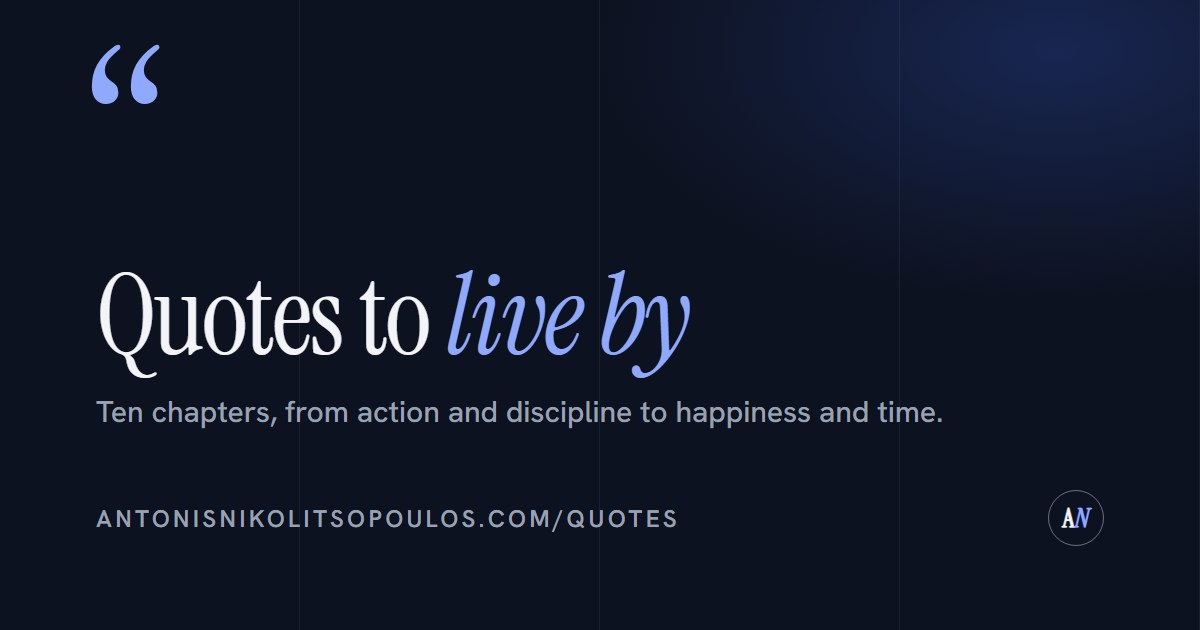
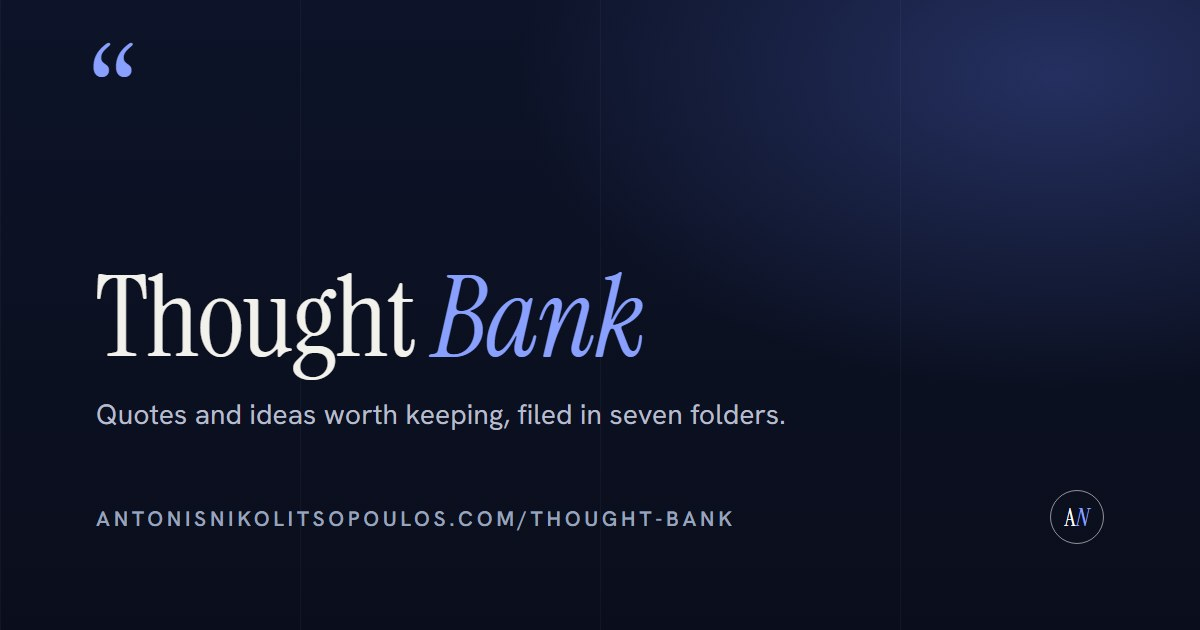
Thought Bank: share image says Thought Bank, not Quotes to live by
The X link preview still showed the old Quotes card because thought-bank/og.jpg was never redrawn
after the rename. New image in the same style, ?v=2 so X refetches it; generator kept in scripts/og.

diff --git a/scripts/og/thought-bank.html b/scripts/og/thought-bank.html
@@ -1,0 +1,25 @@
+<!doctype html><html><head><meta charset="utf-8">
+<link rel="stylesheet" href="https://fonts.googleapis.com/css2?family=Instrument+Serif:ital@0;1&family=Hanken+Grotesk:wght@400;500;600&display=swap">
+<style>
+html,body{margin:0}
+body{width:1200px;height:630px;position:relative;overflow:hidden;font-family:"Hanken Grotesk",sans-serif;color:#f3f1ec;
+ background:#0b1020;
+ background-image:radial-gradient(900px 520px at 88% 12%,rgba(75,96,190,.38),rgba(11,16,32,0) 60%),
+  linear-gradient(180deg,#0d1328 0%,#0a0e1c 100%);}
+.lines{position:absolute;inset:0;background-image:repeating-linear-gradient(90deg,rgba(255,255,255,.035) 0 1px,transparent 1px 300px);}
+.mark{position:absolute;left:96px;top:36px;font-family:"Instrument Serif",serif;font-size:150px;line-height:1;color:#8aa0ff;}
+h1{position:absolute;left:96px;top:262px;margin:0;font-family:"Instrument Serif",serif;font-weight:400;font-size:112px;line-height:1;letter-spacing:-.01em;}
+h1 em{color:#8aa0ff;font-style:italic;}
+.sub{position:absolute;left:96px;top:396px;margin:0;font-size:28px;color:#b7bccb;letter-spacing:.005em;}
+.url{position:absolute;left:96px;top:505px;margin:0;font-size:21px;font-weight:600;letter-spacing:.18em;color:#9aa3bd;text-transform:uppercase;}
+.an{position:absolute;right:96px;top:490px;width:52px;height:52px;border-radius:50%;border:1.5px solid rgba(255,255,255,.55);
+ display:flex;align-items:center;justify-content:center;font-family:"Instrument Serif",serif;font-size:24px;letter-spacing:.02em;color:#fff;}
+.an i{font-style:italic;color:#8aa0ff;}
+</style></head><body>
+<div class="lines"></div>
+<div class="mark">&ldquo;</div>
+<h1>Thought <em>Bank</em></h1>
+<p class="sub">Quotes and ideas worth keeping, filed in seven folders.</p>
+<p class="url">antonisnikolitsopoulos.com/thought-bank</p>
+<div class="an">A<i>N</i></div>
+</body></html>

diff --git a/thought-bank/index.html b/thought-bank/index.html
@@ -7,7 +7,7 @@
 <meta property="og:description" content="A Thought Bank: quotes and ideas worth keeping, filed in seven folders: physical health, emotions, mind, relationships, career, money and environment.">
 <meta property="og:url" content="https://antonisnikolitsopoulos.com/thought-bank/">
 <meta property="og:type" content="website">
-<meta property="og:image" content="https://antonisnikolitsopoulos.com/thought-bank/og.jpg?v=1">
+<meta property="og:image" content="https://antonisnikolitsopoulos.com/thought-bank/og.jpg?v=2">
 <meta property="og:image:width" content="1200">
 <meta property="og:image:height" content="630">
 <meta name="twitter:card" content="summary_large_image">

diff --git a/scripts/og/render.py b/scripts/og/render.py
@@ -1,0 +1,10 @@
+# Share image for X link previews: python scripts/og/render.py scripts/og/thought-bank.html thought-bank/og.jpg (then bump ?v= in the page)
+import sys, pathlib
+from playwright.sync_api import sync_playwright
+html, out = pathlib.Path(sys.argv[1]).read_text(encoding="utf-8"), sys.argv[2]
+with sync_playwright() as p:
+    b = p.chromium.launch(); pg = b.new_page(viewport={"width":1200,"height":630})
+    pg.set_content(html, wait_until="networkidle"); pg.wait_for_timeout(1500)
+    pg.evaluate("document.fonts.ready")
+    pg.screenshot(path=out, type="jpeg", quality=88); b.close()
+print("ok", out)
